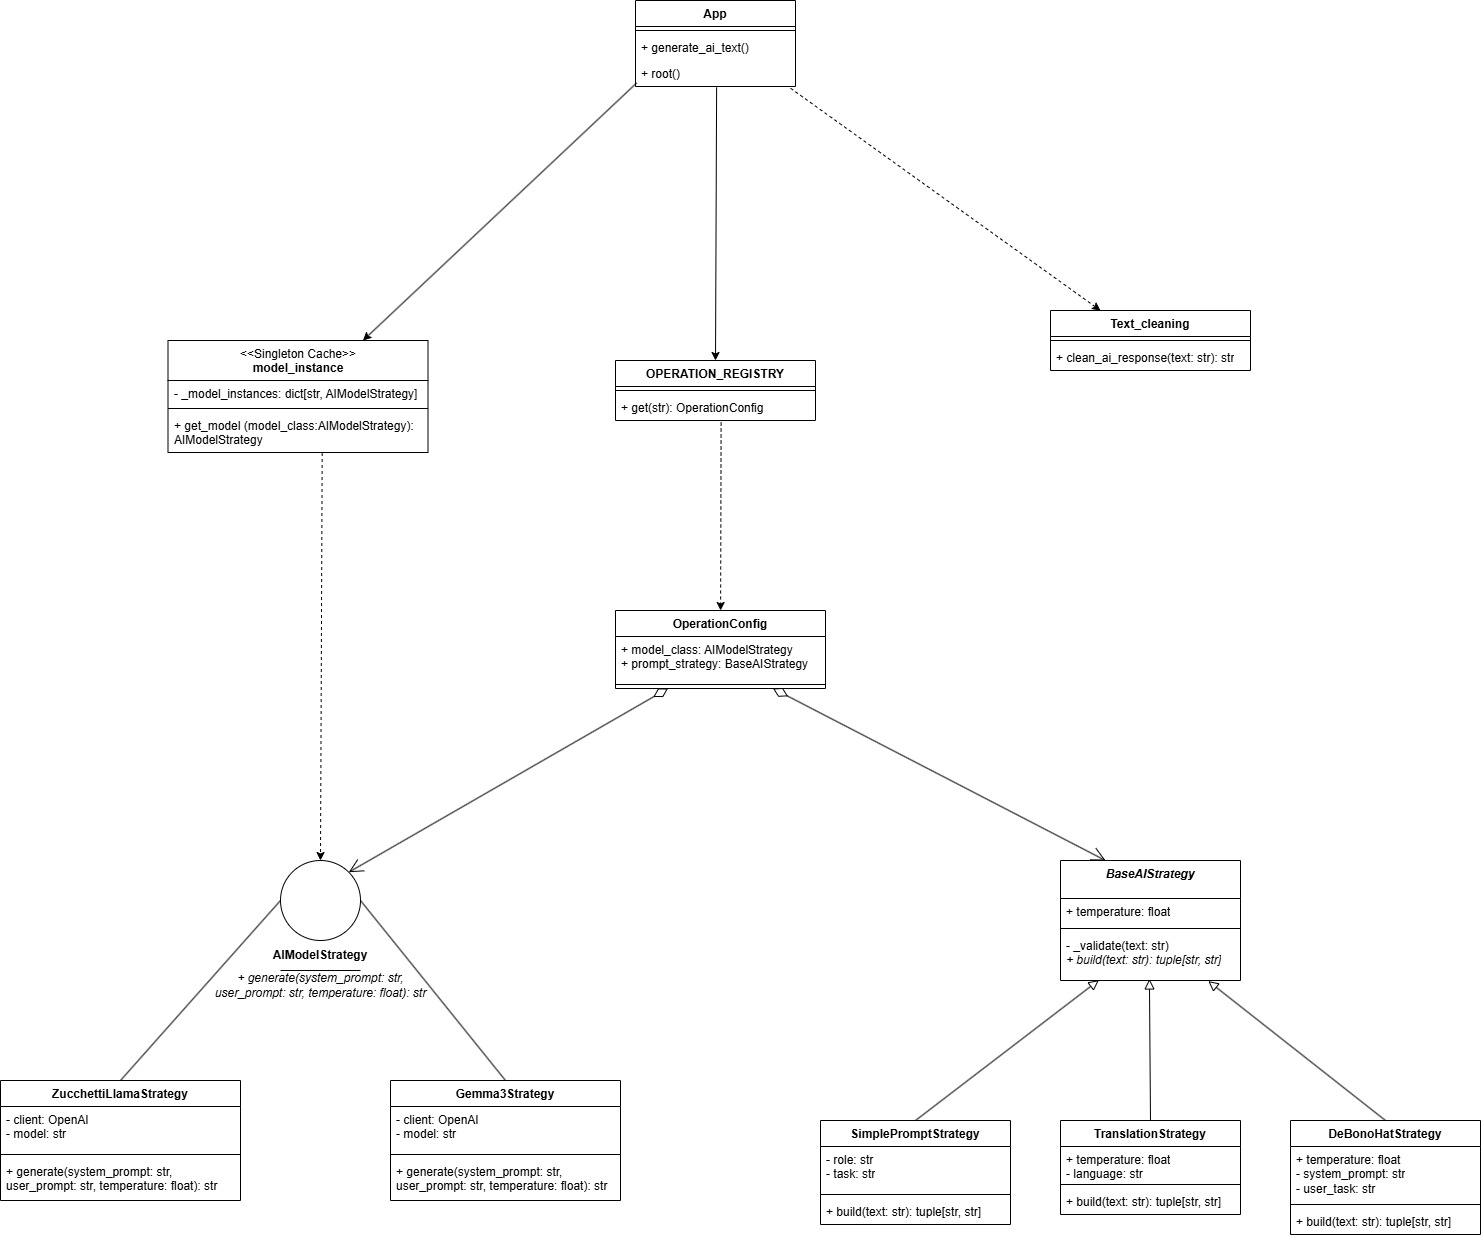
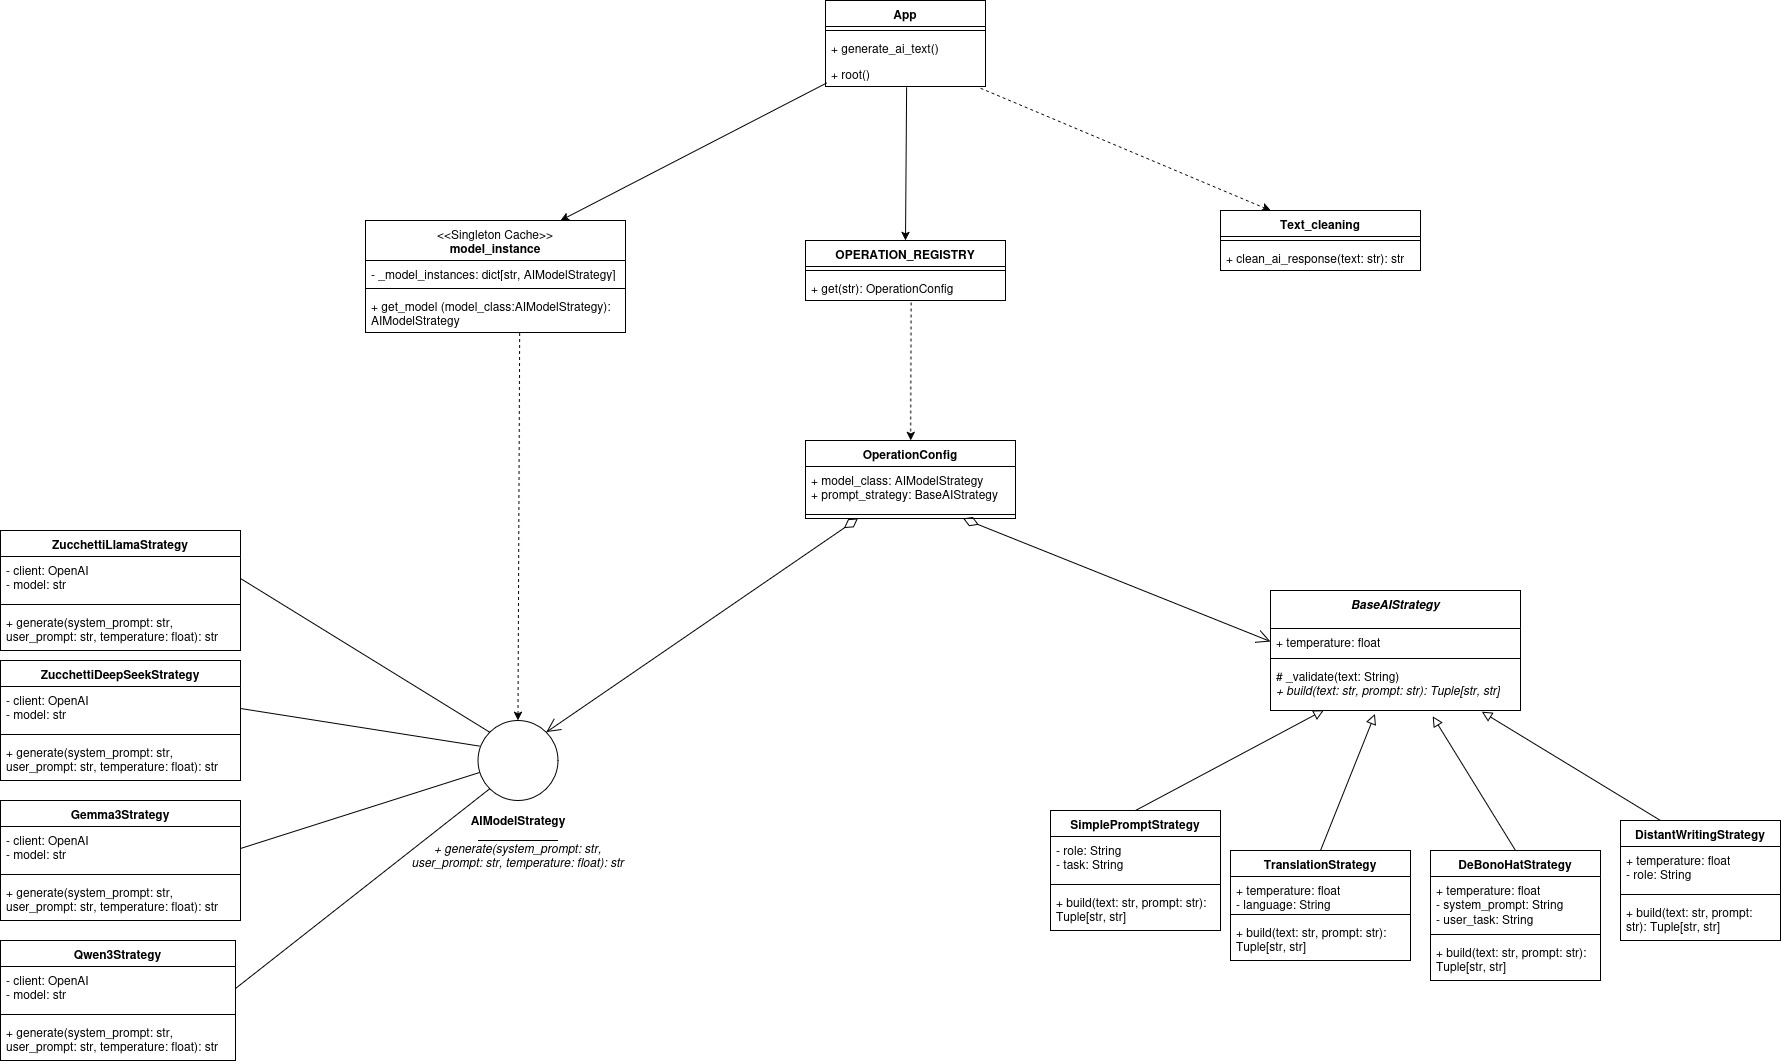
aggiornati diagrammi UML strategy

diff --git a/src/3_PB/Specifica_Tecnica_v0.2.2.tex b/src/3_PB/Specifica_Tecnica_v0.2.2.tex
@@ -533,9 +533,7 @@ L'implementazione standard adottata prevede la scomposizione del sistema in quat
     \item \textbf{Application Logic}: Riceve le informazioni dall'esterno, effettua i controlli formali, orchestra le operazioni e gestisce il flusso applicativo.
     \item \textbf{Business Logic}: Il cuore del sistema, che implementa la logica funzionale vera e propria e le regole di dominio, isolato dal sistema di rete.
     \item \textbf{Persistence Logic}: Lo strato dedicato alla conservazione dei dati nel tempo.
-\end{itemize}
-
-% DIAGRAMMA COMPLETO DI TUTTA L'ARCHITETTURA (o dopo)
+\end{itemize}    
 
 \subsection{Applicazione del pattern in "Second Brain"}
 Di seguito viene descritto in dettaglio come i moduli e i file del progetto realizzano i quattro livelli teorici dell'architettura.
@@ -589,10 +587,10 @@ Questa struttura avrebbe violato il principio di Inversione delle Dipendenze, re
 La struttura \texttt{OperationConfig} è definita tramite un \texttt{@dataclass} ed è progettata per garantire un accoppiamento debole tra i componenti. Agisce come un contenitore che incapsula le dipendenze necessarie a ogni singola operazione.
 \begin{itemize}
     \item\textbf{Attributi:}
-\begin{itemize}
-    \item \texttt{model\_class} (\texttt{Type[AIModelStrategy]}): è il riferimento al tipo della classe del modello da istanziare, la cui creazione effettiva è delegata al sistema di caching (\texttt{get\_model}).
-    \item \texttt{\gls{prompt}\_strategy} (\texttt{BaseAIStrategy}): è un'istanza preconfigurata della strategia di \gls{prompt} specifica per quell'operazione.
-\end{itemize}
+    \begin{itemize}
+        \item \texttt{model\_class} (\texttt{Type[AIModelStrategy]}): è il riferimento al tipo della classe del modello da istanziare, la cui creazione effettiva è delegata al sistema di caching (\texttt{get\_model}).
+        \item \texttt{\gls{prompt}\_strategy} (\texttt{BaseAIStrategy}): è un'istanza preconfigurata della strategia di \gls{prompt} specifica per quell'operazione.
+    \end{itemize}
 \end{itemize}
 
 
@@ -615,8 +613,6 @@ Permette l'astrazione della comunicazione con i provider esterni. Le classi cont
 \subsubsection{Modulo: \texttt{text\_cleaning.py} (Servizi di supporto)}
 Sottomodulo funzionale che utilizza espressioni regolari (regex) per validare e "ripulire" l'output testuale grezzo generato dagli LLM. Il suo scopo è garantire che il testo restituito al client sia privo di metatesto, preamboli discorsivi o tag \gls{markdown} residui, assicurando la coerenza del dominio.
 
-% GRAFICO (?)
-
 % ===================
 % PERSISTENCE LOGIC
 % ===================
@@ -632,11 +628,10 @@ La progettazione del backend di \textit{Second Brain} si basa sull'applicazione 
 
 \begin{figure}[H]
     \centering
-    \includegraphics[width=0.8\textwidth]{../UMLimg/backend.jpg}
-    \caption{UML Backend}
+    \includegraphics[width=1\textwidth]{../UMLimg/backend.jpg}
+    \caption{Diagramma UML Backend: layered architecture e strategy pattern}
     \label{fig:uml_backend}
 \end{figure}
-
 
 \subsection{Strategy pattern}
 Lo \textbf{Strategy} è un design pattern comportamentale il cui scopo principale è definire una famiglia di algoritmi, incapsularli in classi separate e renderli interscambiabili tra loro. Questo approccio permette agli algoritmi di variare in modo indipendente rispetto alle classi che li utilizzano, rendendo il codice modulare ed estensibile.
@@ -724,11 +719,10 @@ Sottoclasse concreta progettata per implementare il metodo dei "Sei Cappelli per
 % DIAGRAMMA DELLE CLASSI
 \begin{figure}[H]
     \centering
-    \includegraphics[width=0.8\textwidth]{../UMLimg/ai_strategy.jpg}
-    \caption{UML Strategy AI}
+    \includegraphics[width=0.8\textwidth]{../UMLimg/ai_strategies.jpg}
+    \caption{Diagramma UMl: Strategy pattern applicato alle operazioni AI}
     \label{fig:uml_ai_strategy}
 \end{figure}
-
 
 
 \subsubsection{Applicazione 2: model strategies (model\_strategies.py)}
@@ -757,6 +751,15 @@ Il sistema prevede due implementazioni concrete che espongono in modo polimorfic
 \end{itemize}
 \end{itemize}
 
+% DIAGRAMMA DELLE CLASSI
+\begin{figure}[H]
+    \centering
+    \includegraphics[width=0.8\textwidth]{../UMLimg/ai_model_strategies.jpg}
+    \caption{Diagramma UMl: Strategy pattern applicato alla scelta dei LLM}
+    \label{fig:uml_model_strategy}
+\end{figure}
+
+
 \subsubsection{Caching (get\_model)}
 La funzione \texttt{get\_model(model\_class)} fornisce un’istanza unica per ciascun modello richiesto, evitando la creazione di più istanze della stessa classe e ottimizzando così l’utilizzo delle risorse.
 
@@ -766,13 +769,6 @@ L’utilizzo di \texttt{functools} consente di affidarsi a una soluzione robusta
 
 Nel contesto specifico dell’applicazione, la presenza di più istanze non avrebbe comportato criticità rilevanti, ma si è comunque scelto di adottare una soluzione più rigorosa per garantire maggiore solidità e aderenza alle buone pratiche di progettazione.
 
-% DIAGRAMMA DELLE CLASSI
-\begin{figure}[H]
-    \centering
-    \includegraphics[width=0.8\textwidth]{../UMLimg/model_strategy.jpg}
-    \caption{UML Strategy ModelAI}
-    \label{fig:uml_model_strategy}
-\end{figure}
 
 \newpage
 
